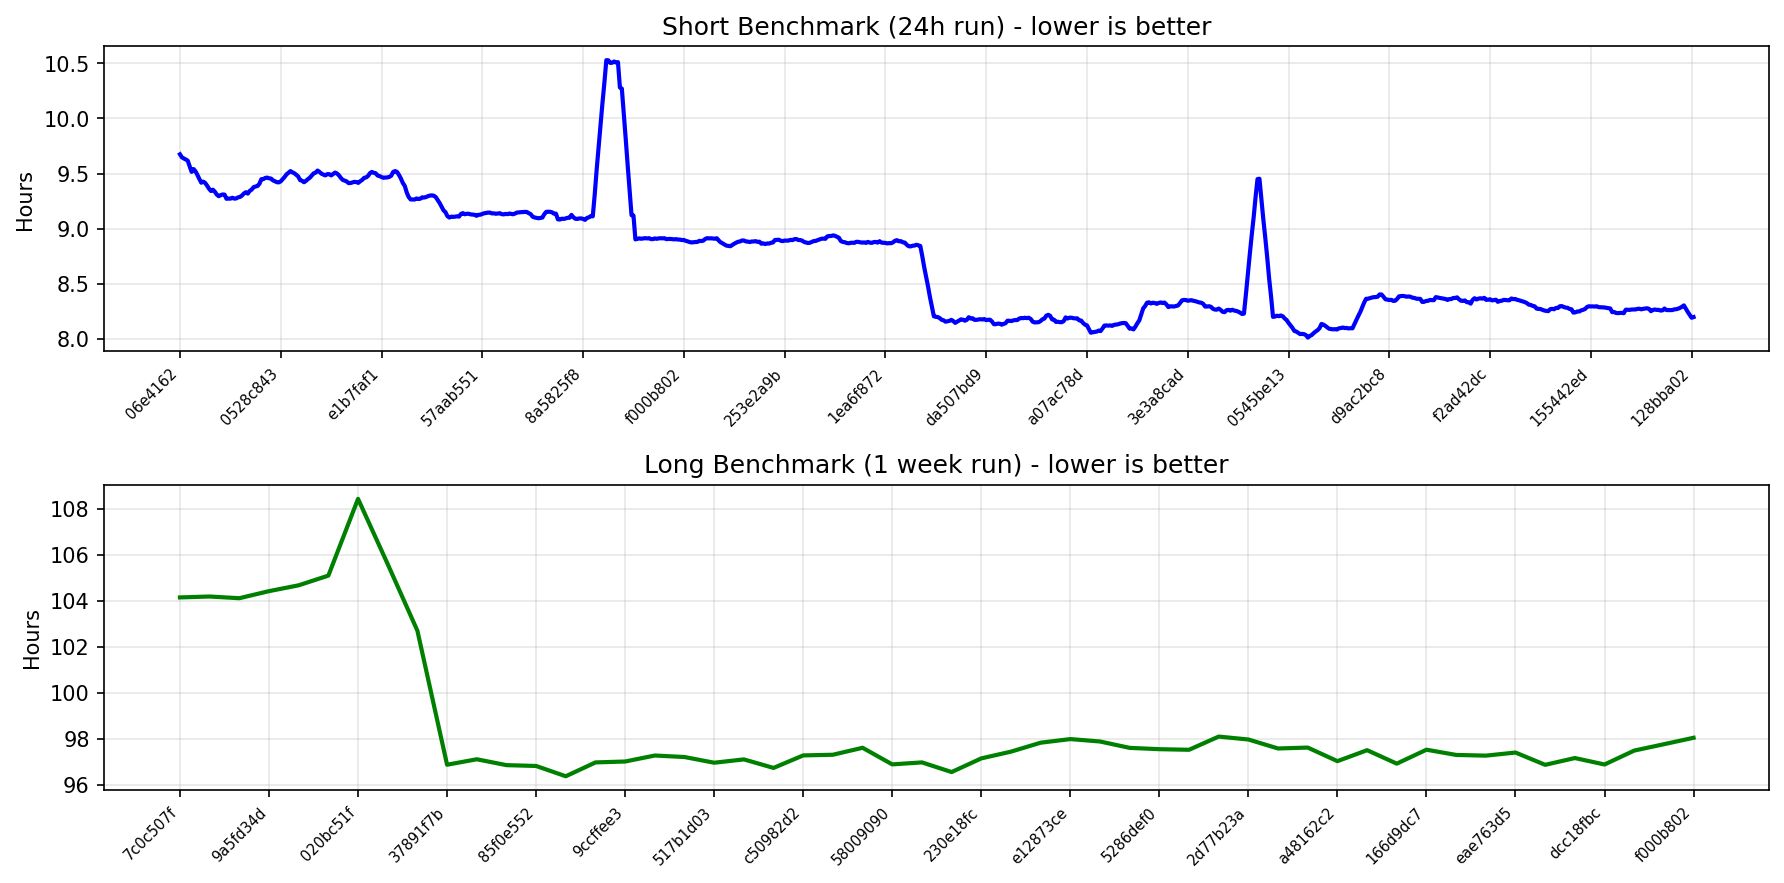
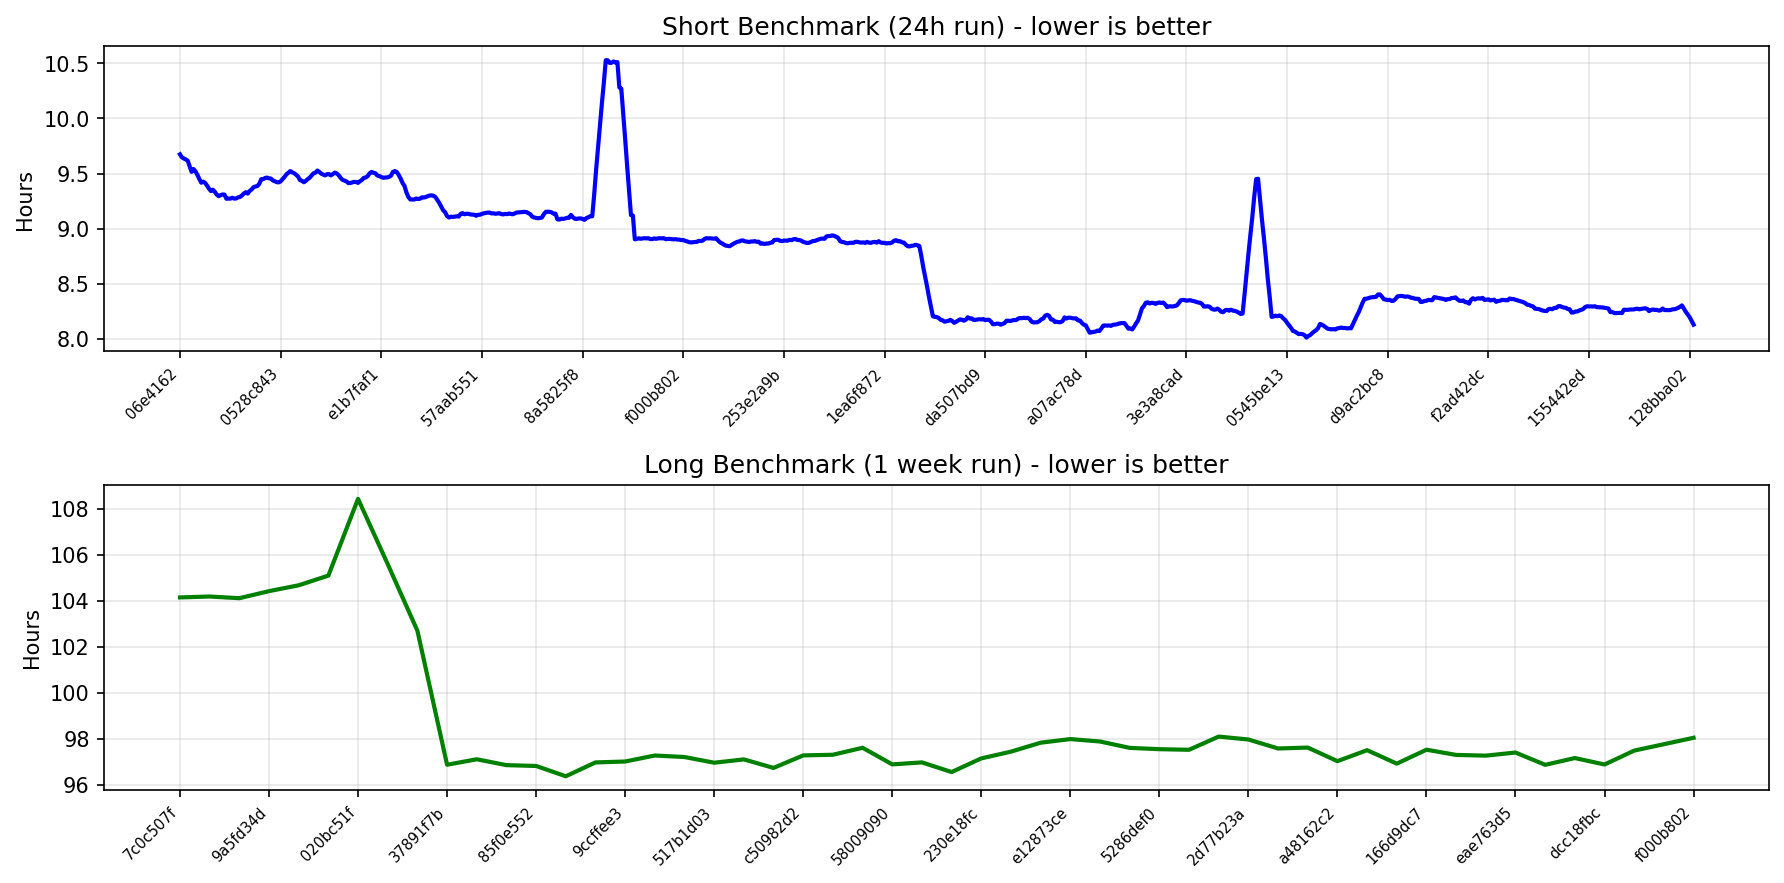
chore: update short benchmark Readme

diff --git a/README.md b/README.md
@@ -12,11 +12,11 @@ This repository contains various eth1 import benchmark metrics.
 
 | Generated At | Baseline SHA | Contender SHA | Baseline Time | Contender Time | Time Delta |
 |--------------|--------------|---------------|---------------|----------------|------------|
+| 2026-06-29 07:22:31 | [450dfa29](https://github.com/status-im/nimbus-eth1/commit/450dfa29) | [fd9286e4](https://github.com/status-im/nimbus-eth1/commit/fd9286e4) | 8h4m39s | 8h6m16s | 1m37s, 0.34% |
 | 2026-06-28 23:04:42 | [128bba02](https://github.com/status-im/nimbus-eth1/commit/128bba02) | [450dfa29](https://github.com/status-im/nimbus-eth1/commit/450dfa29) | 8h5m52s | 8h4m39s | -1m13s, -0.25% |
 | 2026-06-28 14:45:44 | [0501ff1e](https://github.com/status-im/nimbus-eth1/commit/0501ff1e) | [128bba02](https://github.com/status-im/nimbus-eth1/commit/128bba02) | 8h20m55s | 8h5m52s | -15m2s, -3.00% |
 | 2026-06-28 06:11:30 | [a9999f59](https://github.com/status-im/nimbus-eth1/commit/a9999f59) | [0501ff1e](https://github.com/status-im/nimbus-eth1/commit/0501ff1e) | 8h20m17s | 8h20m55s | 37s, 0.13% |
 | 2026-06-27 21:38:07 | [81a05fc7](https://github.com/status-im/nimbus-eth1/commit/81a05fc7) | [a9999f59](https://github.com/status-im/nimbus-eth1/commit/a9999f59) | 8h18m19s | 8h20m17s | 1m58s, 0.40% |
-| 2026-06-27 13:06:30 | [002bcfe8](https://github.com/status-im/nimbus-eth1/commit/002bcfe8) | [81a05fc7](https://github.com/status-im/nimbus-eth1/commit/81a05fc7) | 8h16m40s | 8h18m19s | 1m38s, 0.33% |
 
 ## Latest 5 Long Benchmarks (1 Week Run)
 